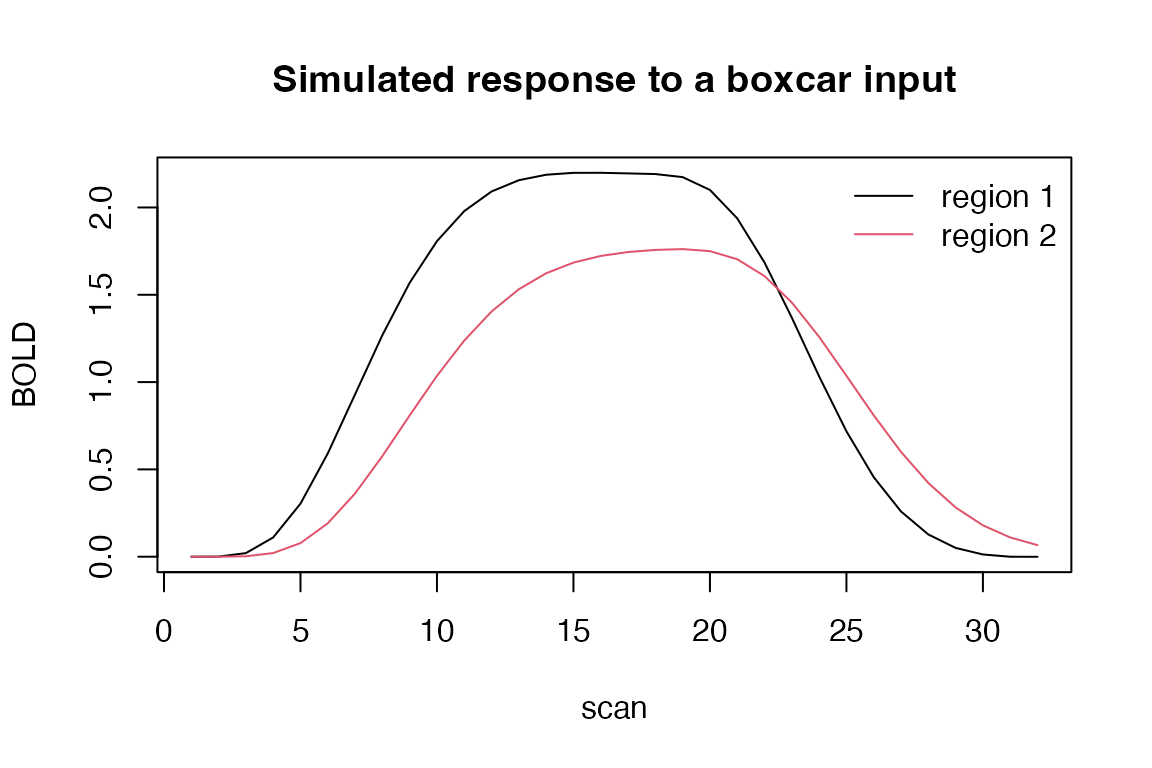
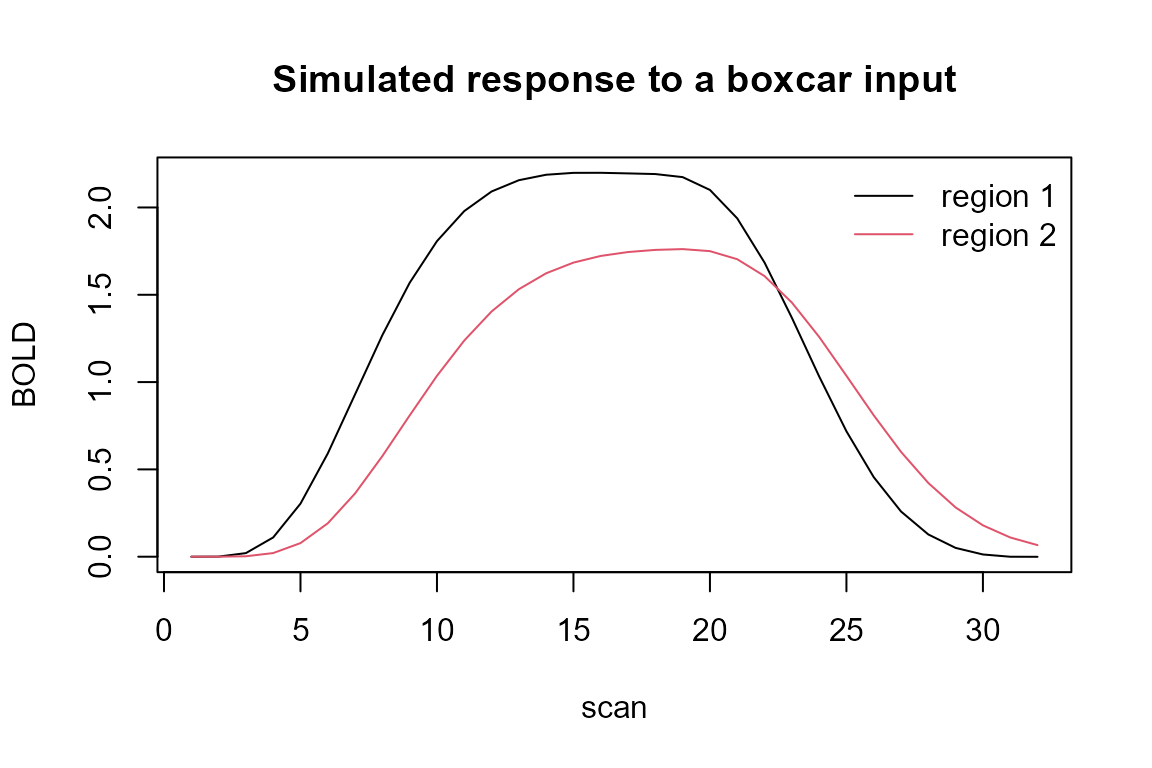
Add files via upload

diff --git a/index.html b/index.html
@@ -97,7 +97,7 @@
 <p>From GitHub (development version):</p>
 <div class="sourceCode" id="cb1"><pre class="downlit sourceCode r">
 <code class="sourceCode R"><span><span class="co"># install.packages("remotes")</span></span>
-<span><span class="fu">remotes</span><span class="fu">::</span><span class="fu">install_github</span><span class="op">(</span><span class="st">"Kay202/rsDCM"</span><span class="op">)</span></span></code></pre></div>
+<span><span class="fu">remotes</span><span class="fu">::</span><span class="fu"><a href="https://remotes.r-lib.org/reference/install_github.html" class="external-link">install_github</a></span><span class="op">(</span><span class="st">"Kay202/rsDCM"</span><span class="op">)</span></span></code></pre></div>
 <p>From CRAN:</p>
 <div class="sourceCode" id="cb2"><pre class="downlit sourceCode r">
 <code class="sourceCode R"><span><span class="fu"><a href="https://rdrr.io/r/utils/install.packages.html" class="external-link">install.packages</a></span><span class="op">(</span><span class="st">"rsDCM"</span><span class="op">)</span></span></code></pre></div>
@@ -261,6 +261,7 @@
 <li><a href="https://github.com/Kay202/rsDCM/actions/workflows/R-CMD-check.yaml" class="external-link"><img src="https://github.com/Kay202/rsDCM/actions/workflows/R-CMD-check.yaml/badge.svg" alt="R-CMD-check"></a></li>
 <li><a href="https://www.codefactor.io/repository/github/Kay202/rsDCM" class="external-link"><img src="https://www.codefactor.io/repository/github/Kay202/rsDCM/badge" alt="CodeFactor"></a></li>
 <li><a href="https://cran.r-project.org/package=rsDCM" class="external-link"><img src="http://cranlogs.r-pkg.org/badges/grand-total/rsDCM"></a></li>
+<li><a href="https://codefactor.io" class="external-link"><img src="https://codefactor.io/badge" alt="CodeFactor"></a></li>
 </ul>
 </div>
 
